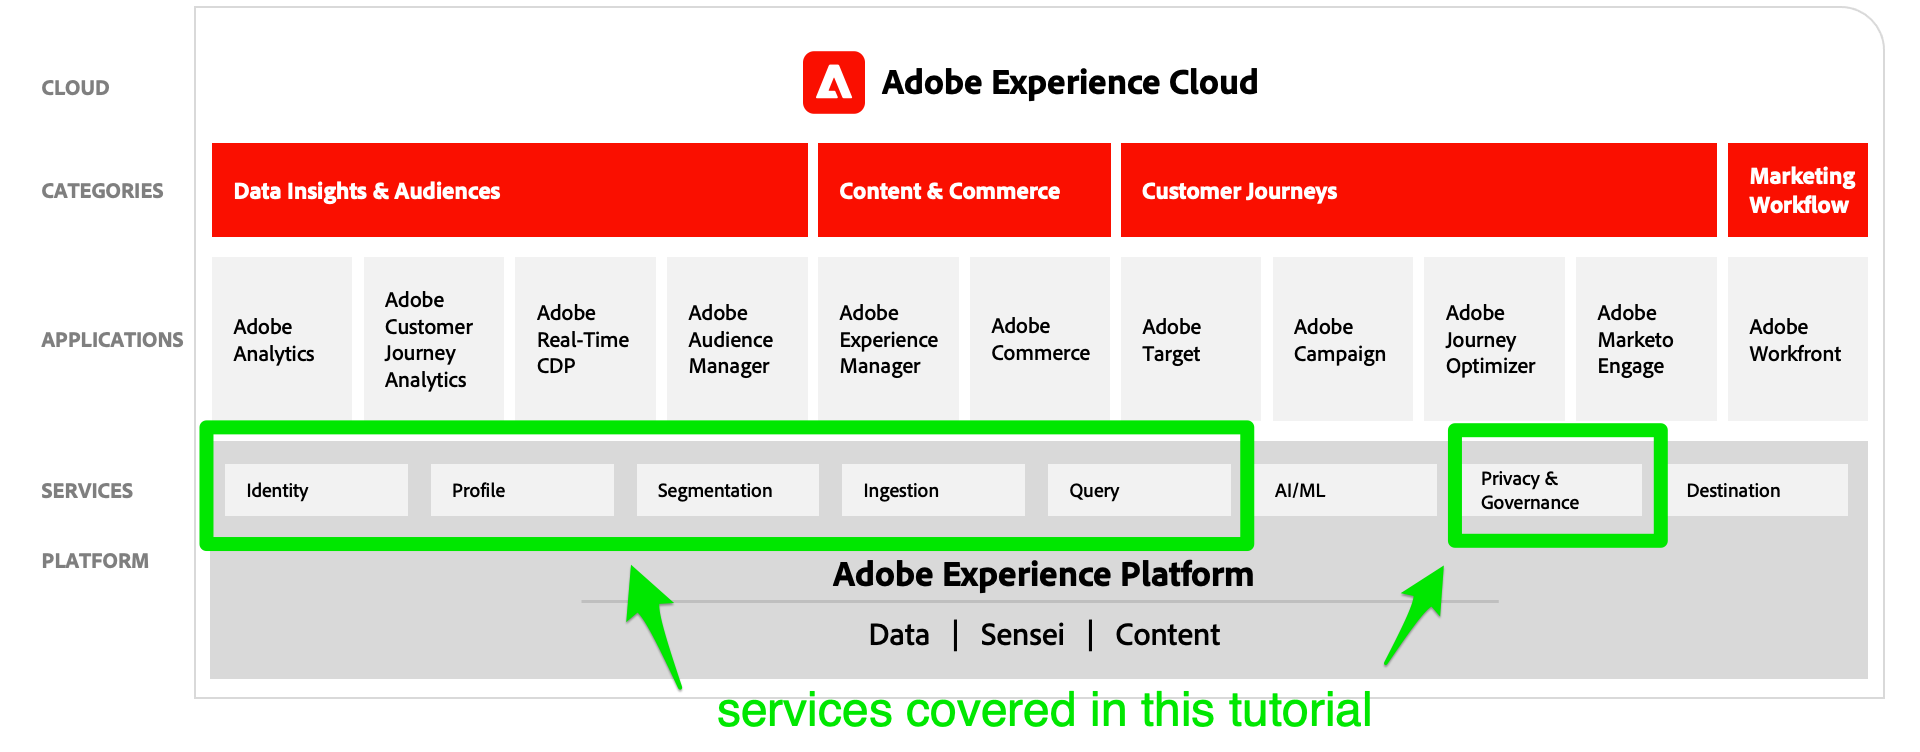
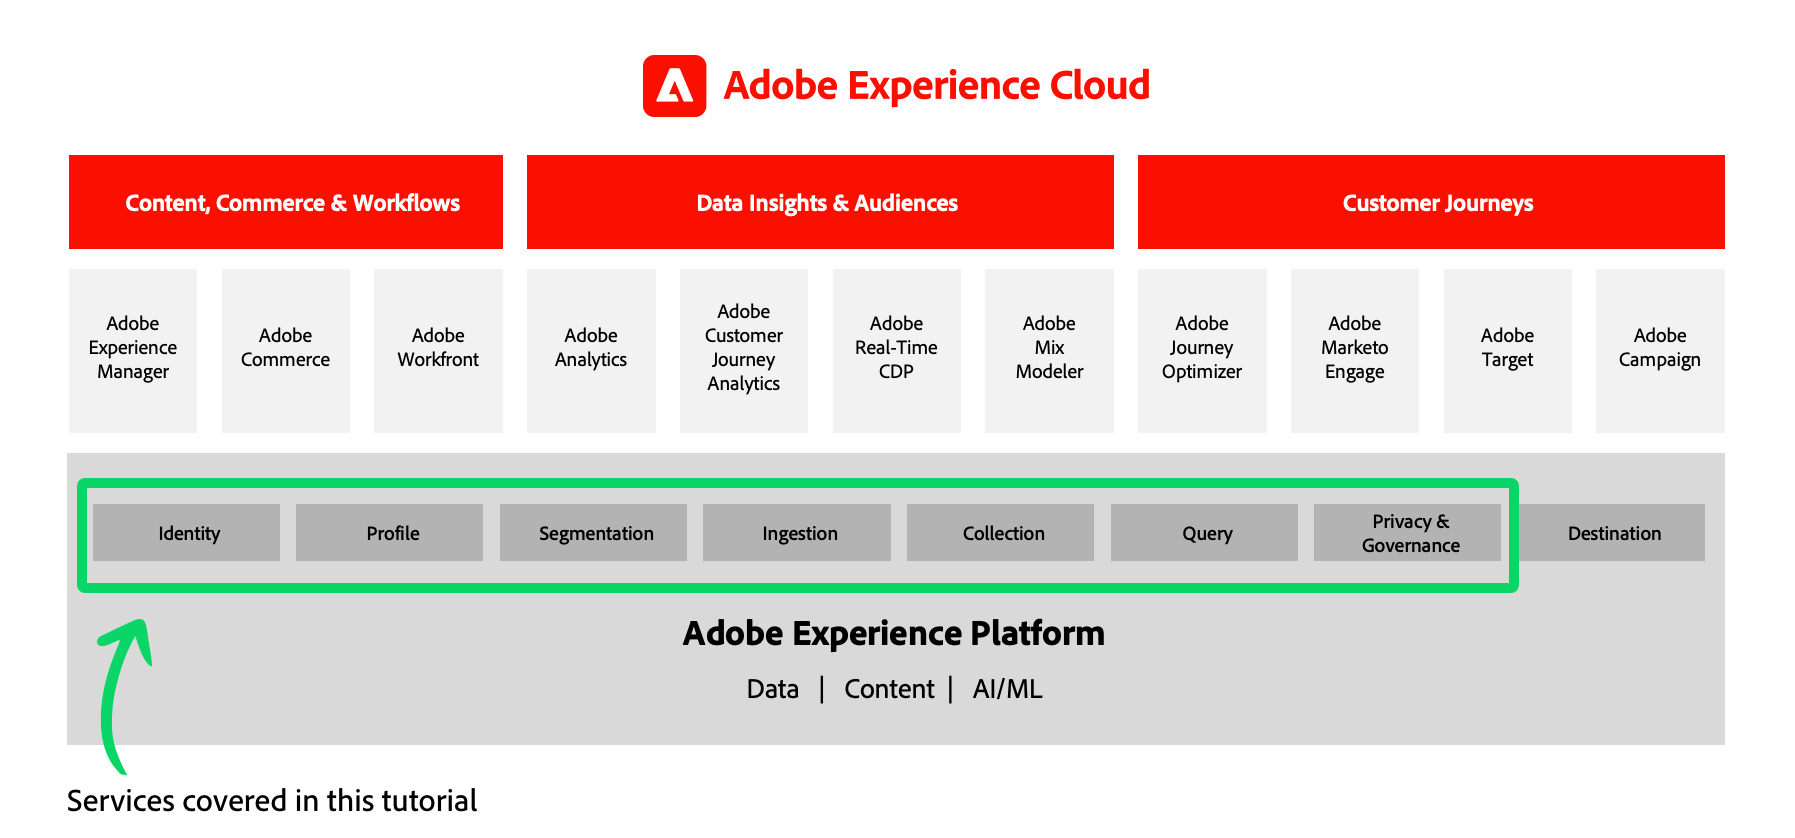
Minor text update; Marketecture slide update

diff --git a/help/tutorial-data-architect-and-engineer/overview.md b/help/tutorial-data-architect-and-engineer/overview.md
@@ -20,7 +20,7 @@ _Getting Started with Adobe Experience Platform for Data Architects and Data Eng
 
 ## Learning Objectives
 
-Data Architects and Data Engineers must closely collaborate for a successful Experience Platform deployment. This hands-on tutorial teaches you the key tasks executed by _both roles_ so you know how to start implementing Platform for your own business. You will be guided through exercises that will introduce you to the key terminology, features, interface, and API of Experience Platform. Customers of Adobe Experience Cloud applications like Real-Time Customer Data Platform, Customer Journey Analytics, and Journey Optimizer will also find this content useful, as Platform services are critical foundations of those applications.
+Data Architects and Data Engineers must closely collaborate for a successful Experience Platform deployment. This hands-on tutorial teaches you the key tasks executed by _both roles_ so you know how to start implementing Platform for your own business. You will be guided through exercises that will introduce you to the key terminology, features, interface, and APIs of Experience Platform. Customers of Adobe Experience Cloud applications like Real-Time Customer Data Platform, Customer Journey Analytics, and Journey Optimizer will also find this content useful, as Platform services are critical foundations of those applications.
 
 ![Adobe Experience Cloud marketecture highlighting the Platform services covered in this tutorial--Identity, Profile, Segmentation, Ingestion, Query, and Governance](assets/marketecture.png)
 
